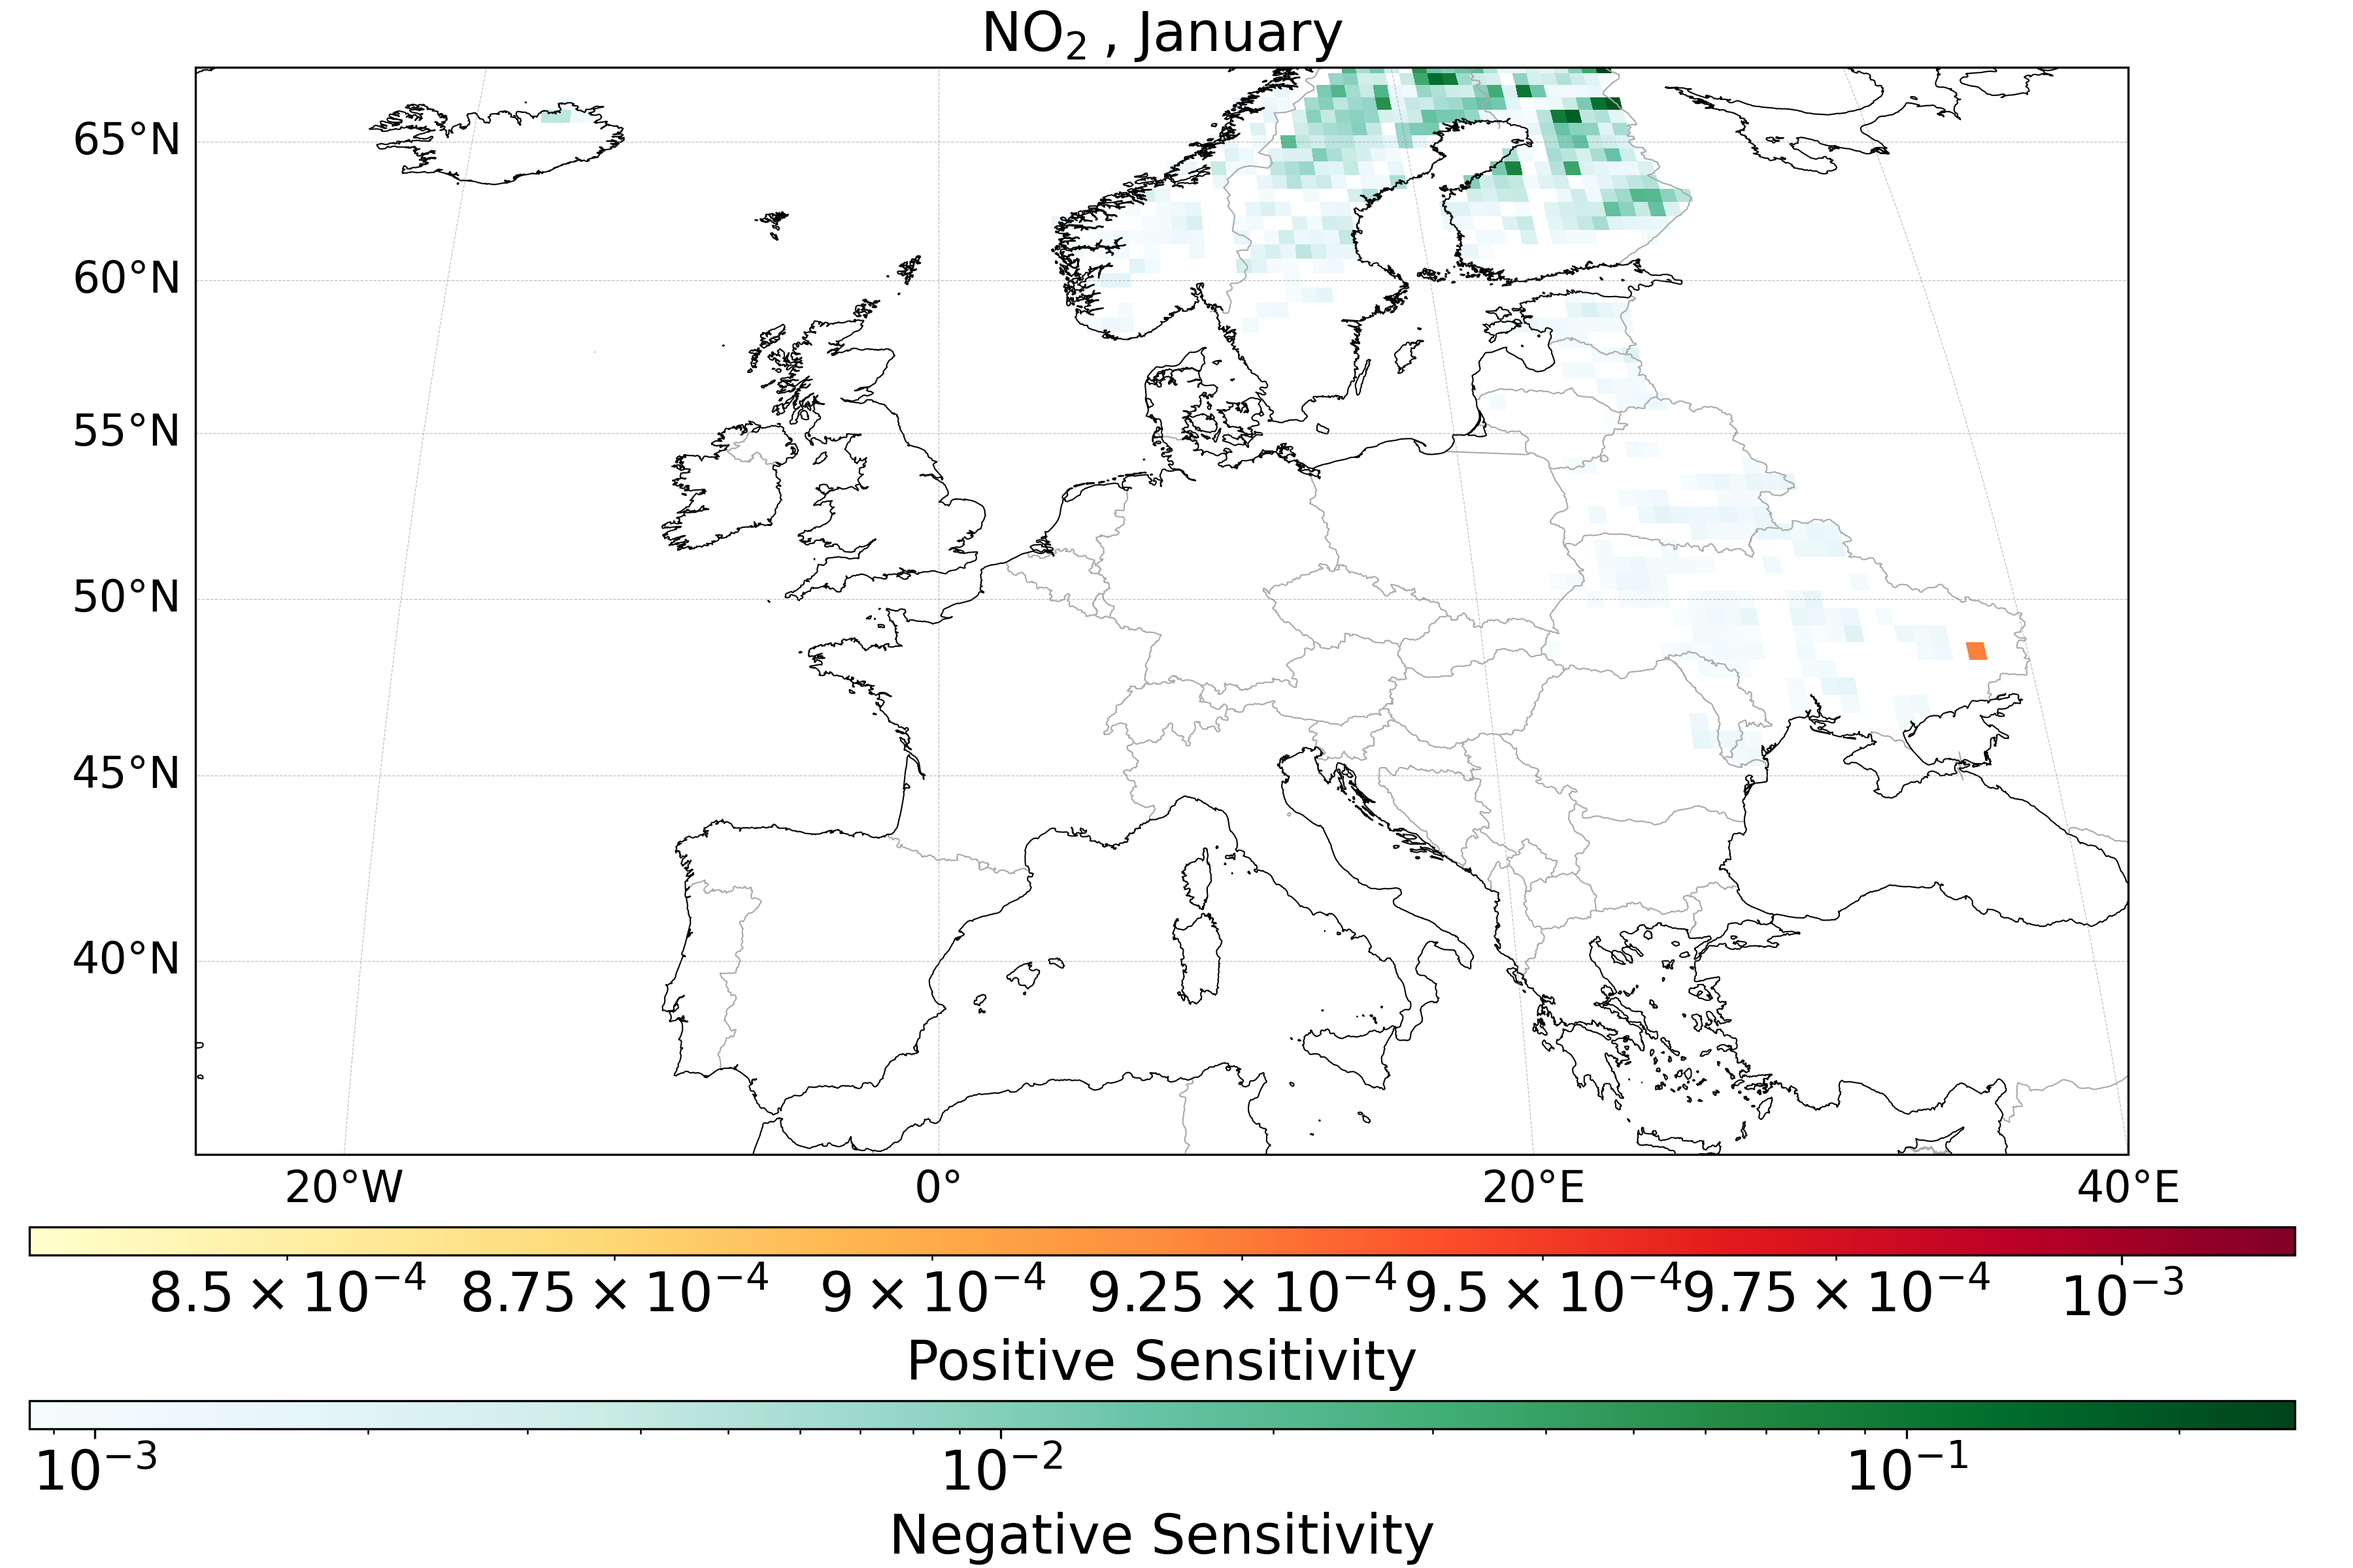
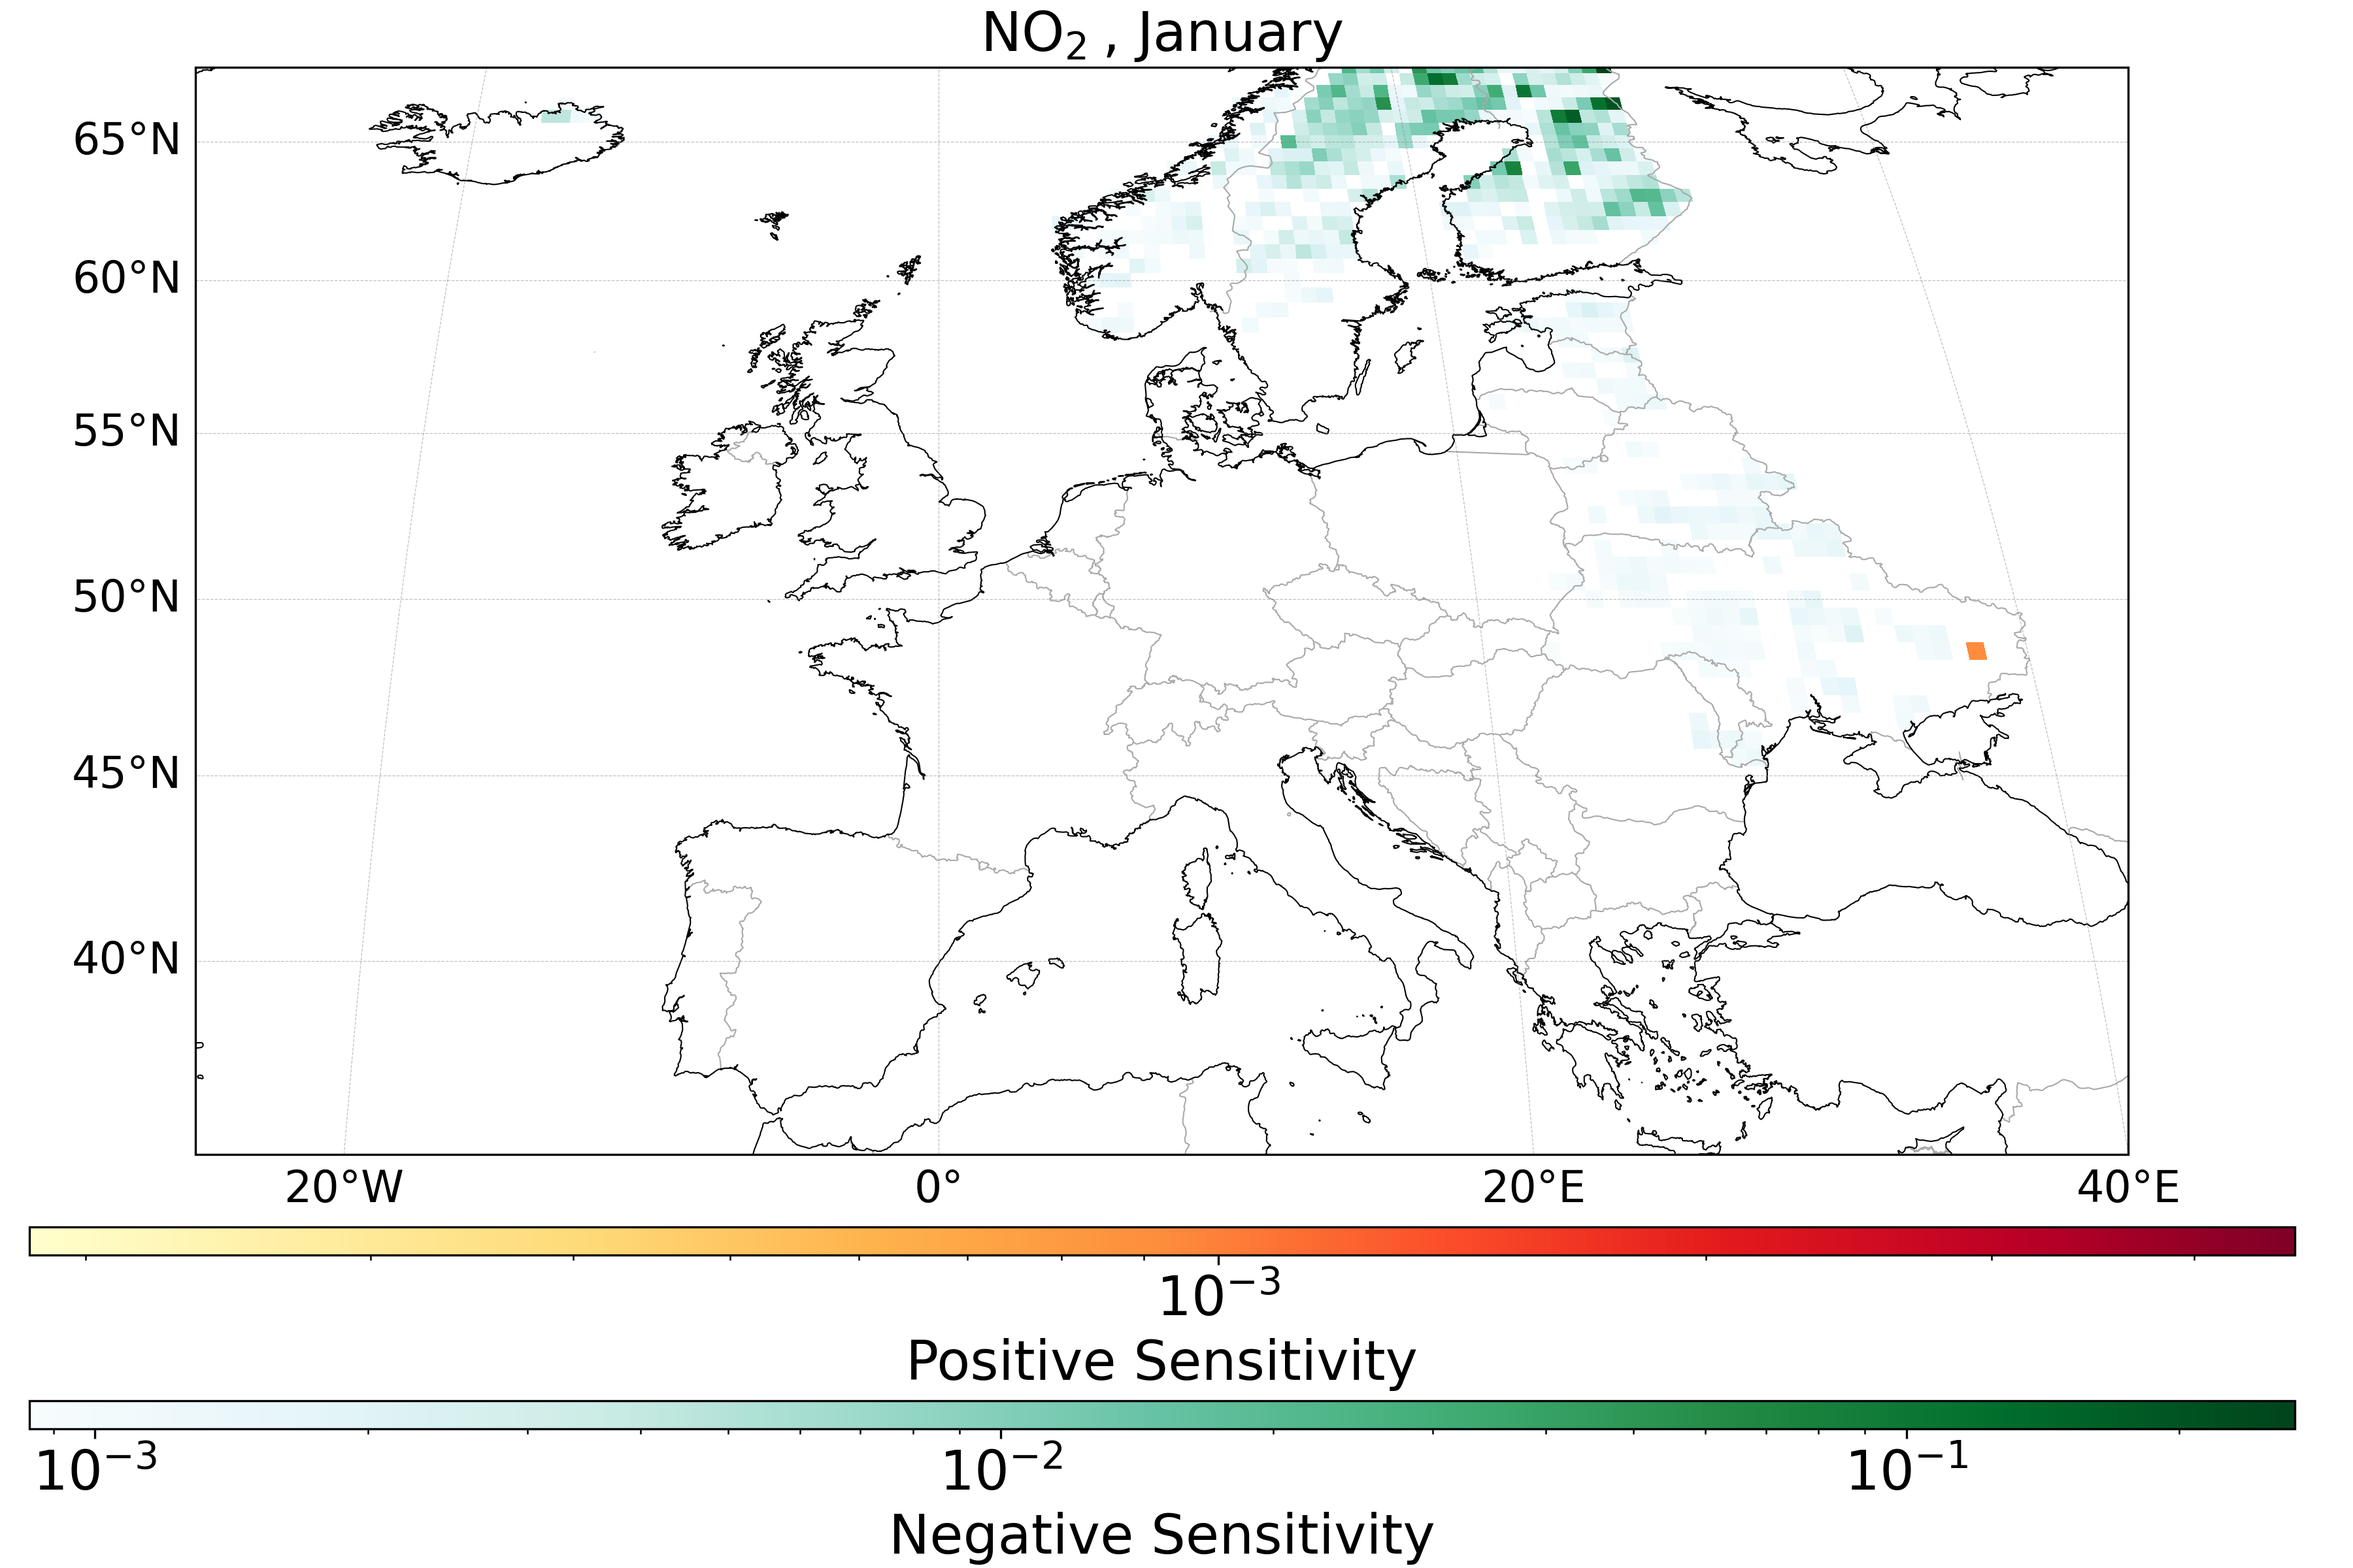
IT'S FIXED THE AXES AREN'T CLUTTERED ANYMORE I CAN FINALLY MOVE ON

diff --git a/division_processing/scatter_log_europe.py b/division_processing/scatter_log_europe.py
@@ -50,41 +50,63 @@ europe_geom = MultiPolygon(polygons)
 prep_europe = prep(europe_geom)
 
 types = {
-    'Aerosol': {
-        'PM25': ['nvPM'],
-        'AerMassNIT': ['NO2'],
-        'AerMassNH4': ['NO2'],
-        'AerMassPOA': ['nvPM', 'HC'],
-        'AerMassBC': ['nvPM']
+    "Aerosol": {
+        "PM25": {
+            "emittants": ["nvPM"],
+            "unit": 1,
+            "name": r'PM$_{2.5} \:$'
+        },
+        "AerMassNIT": {
+            "emittants": ["NO2"],
+            "unit": 1,  # Example, adjust as needed
+            "name": r'Inorganic Nitrate Aerosols'
+        },
+        "AerMassSO4":{
+            "emittants": ["FUELBURN"],
+            "unit": 1,
+            "name": r"Sulfate Aerosol"
+        }
+        # 'AerMassNH4': ['NO2'],
+        # 'AerMassPOA': ['nvPM', 'HC'],
+        # 'AerMassBC': ['nvPM']
     },
-    'O3': {
-        'SpeciesConc_O3': ['NO2', 'HC', 'CO']
+    # "Aerosol2": {
+    #     "AerMassNIT": ["NO2"]
+    # },
+    "O3": {
+        "SpeciesConc_O3": {
+            "emittants": ["NO2", "HC", "CO"],
+            "unit": 44.6 * 48 * 1e6,
+            "name": r'O$_3 \:$'
+        }
     },
-    'NO2': {
-        'SpeciesConc_NO2': ['NO2']
-    }
+    "NO2": {
+        "SpeciesConc_NO2": {
+            "emittants": ["NO2"],
+            "unit": 44.6 * 46.01 * 1e6,
+            "name": r'NO$_2 \:$'
+        }
+    },
 }
 
 percentile = 80
 ifpercen = "Top " + str(100-percentile) +  "%"
 
-units= [r'PM$_{2.5} \:$', r'O$_3 \:$', r'NO$_2 \:$']
-
-multipliers = [1, 44.6*48*1e6, 44.6*46.01*1e6]
-
 emissions = xr.open_dataset(os.path.join(os.path.dirname(__file__), '..', 'raw_data', 'emissions', 'AvEmMasses.nc4'))
 
-for j, value in enumerate(types.items()):
-    type_, vars = value
-    for var, emittants in vars.items():
-        fig, ax = plt.subplots(1, 2, figsize=[12, 3])
+for type_, vars in types.items():
+    for var, properties in vars.items():
+        emittants = properties["emittants"]
+        unit = properties["unit"]
+        name = properties["name"]
+        fig, ax = plt.subplots(1, 2, figsize=[12, 4])
         plt.tight_layout()
         pollutants_lst = []
         emittants_lst = []
         measures_lst = []
         
         for month in months:
-            pollutant = differencer(type_, month, var) * multipliers[j] # 74 by 122
+            pollutant = differencer(type_, month, var) * unit # 74 by 122
             sum_emittant = adder(emissions, emittants) # 75 by 123
             
             sum_emittant = (sum_emittant.drop_isel({'lat':-1, 'lon': -1}))
@@ -150,8 +172,8 @@ for j, value in enumerate(types.items()):
             ax[i].scatter(top_neg_sens_emittants, top_neg_sens_pollutants, color='tab:red', alpha=0.1, label= f"Negative ({ifpercen})", marker="^")
             ax[i].scatter(peasant_neg_sens_emittants, peasant_neg_sens_pollutants, color='tab:orange', alpha=0.1, label= "Negative")
             # ax[i].set_title(f"{var}, monthly average {month}", fontsize=14)
-            ax[i].set_xlabel(r'[kg/year]')
-            ax[i].set_ylabel(units[j] + r'[$\mu g /  m^3$]')
+            ax[i].set_xlabel(f"Emittants ({emittants}) [kg/year]")
+            ax[i].set_ylabel(name + r' [$\mu g /  m^3$]')
             ax[i].set_xscale('log')
             ax[i].set_yscale('log')
             ax[i].set_title(f"{monthname[i]}")

diff --git a/division_processing/sensitivity_log_europe.py b/division_processing/sensitivity_log_europe.py
@@ -19,6 +19,20 @@ font = {'family' : 'DejaVu Sans',
 
 matplotlib.rc('font', **font)
 
+def safe_lognorm(data, margin_factor=5):
+    vmin = np.nanmin(data)
+    vmax = np.nanmax(data)
+
+    if not np.isfinite(vmin) or not np.isfinite(vmax) or vmin <= 0:
+        raise ValueError("Invalid or non-positive data for LogNorm")
+
+    if vmin == vmax:
+        # Expand the range around the single value
+        vmin /= margin_factor
+        vmax *= margin_factor
+
+    return matplotlib.colors.LogNorm(vmin=vmin, vmax=vmax)
+
 # Load the 'admin_0_countries' shapefile (countries of the world)
 shpfilename = shpreader.natural_earth(
     resolution="10m", category="cultural", name="admin_0_countries"
@@ -236,17 +250,11 @@ for type_, vars in types.items():
             # print(min(negative_measures.lat))
             # print(min(masked_measure_europe.lat))
 
-            vmin = np.nanmin(positive_measures_topx.values)
-            vmax = np.nanmax(positive_measures_topx.values)
-            print("vmin, vmax pos:", vmin, vmax)
-            norm1 = matplotlib.colors.LogNorm(vmin=vmin, vmax=vmax)
+            norm1 = safe_lognorm(positive_measures_topx.values)
 
             # fig.set_size_inches(12, 6)
             if np.any(~np.isnan(negative_measures_topx.values)):
-                vmin=np.nanmin(negative_measures_topx.values)
-                vmax=np.nanmax(negative_measures_topx.values)
-                print("vmin, vmax pos:", vmin, vmax)
-                norm2 = matplotlib.colors.LogNorm(vmin=vmin, vmax=vmax)
+                norm2 = safe_lognorm(negative_measures_topx.values)
                 
                 negative_measures_topx.plot(
                     ax=ax,
